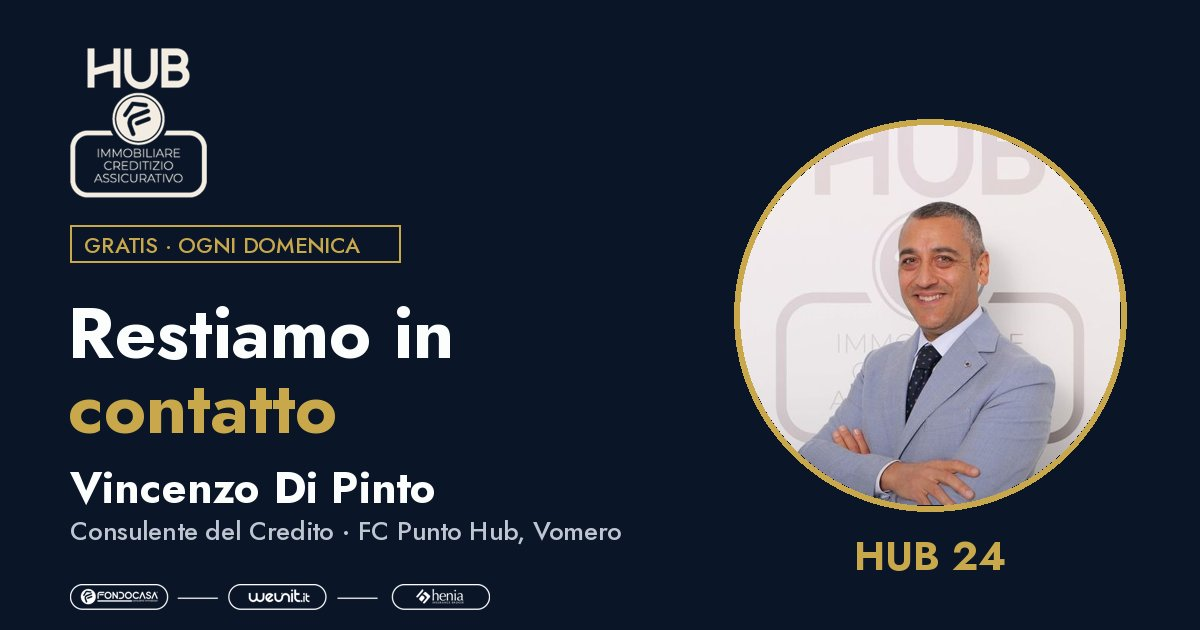
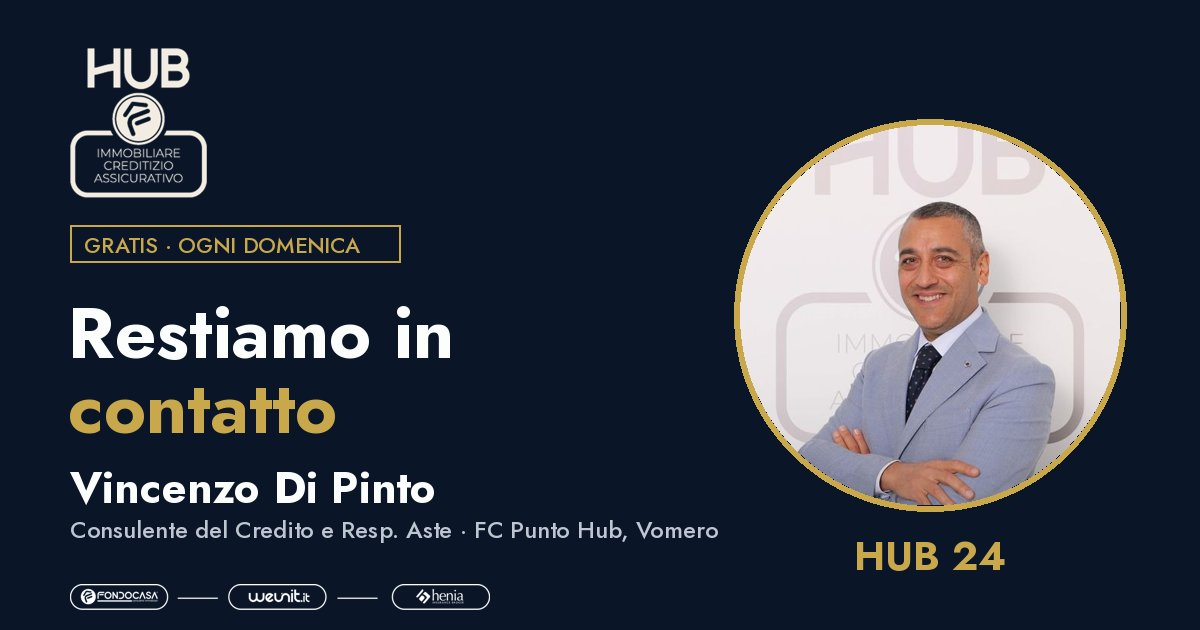
resta-informato: Di Pinto «Consulente del Credito e Resp. Aste» (pagina e anteprima) (#112)
Anche: og:image con ?v=<hash> così WhatsApp non riusa l'immagine vecchia quando cambia.

Claude-Session: https://claude.ai/code/session_011GrFua1VbLM6KjCqeYhkGa

Changed region(s): [[0.0617, 0.8143, 0.5858, 0.8746]]

diff --git a/public/resta-informato/pagina.html b/public/resta-informato/pagina.html
@@ -159,7 +159,7 @@ footer img{max-width:340px;width:100%;height:auto;margin:6px auto 14px;display:b
     nigido:{nome:"Nicola Nigido",ruolo:"CEO e Store Manager",foto:9,tel:"3937882334"},
     mosca:{nome:"Avv. Carlo Mosca",ruolo:"Responsabile Team Legale",foto:8,tel:"3289258010"},
     esposito:{nome:"Vincenzo Esposito",ruolo:"Team Manager",foto:7,tel:"3518392699"},
-    dipinto:{nome:"Vincenzo Di Pinto",ruolo:"Consulente del Credito",foto:6,tel:"3776765500"},
+    dipinto:{nome:"Vincenzo Di Pinto",ruolo:"Consulente del Credito e Resp. Aste",foto:6,tel:"3776765500"},
     misuraca:{nome:"Annalisa Misuraca",ruolo:"Senior Agent",foto:2,tel:"3383255417"},
     rausa:{nome:"Leonardo Rausa",ruolo:"Junior Agent",foto:3,tel:"3421372855"},
     chiocca:{nome:"Angela Chiocca",ruolo:"Property Assistant",foto:5,tel:"3355259648"},
